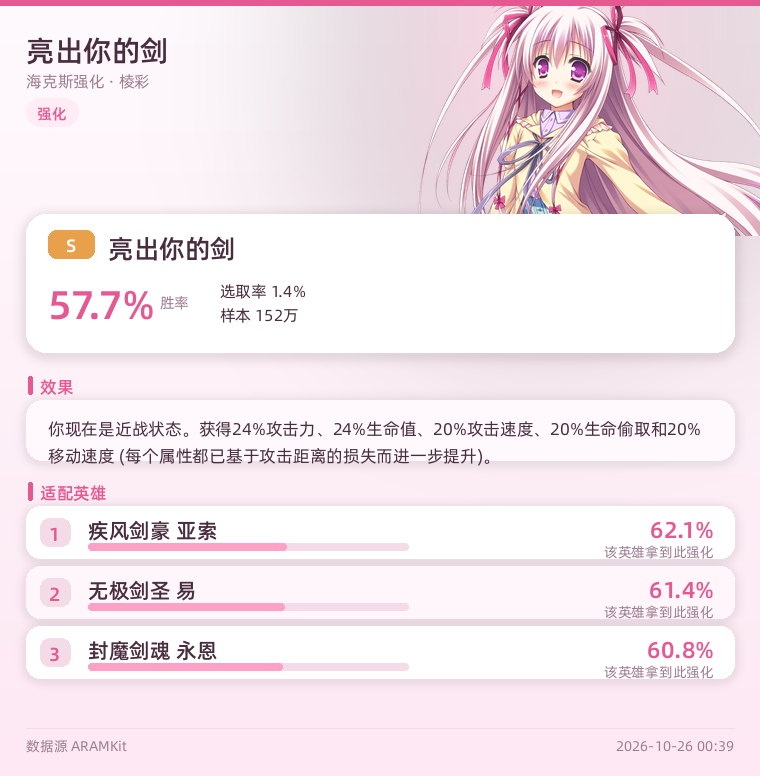
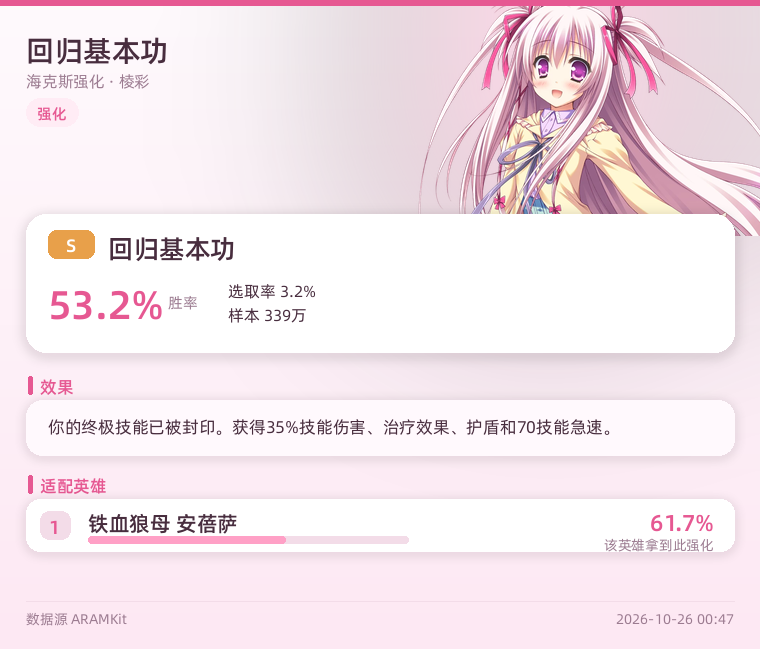
fix: 效果框文字溢出 + 强化别名与缩写搜索
- 修复效果区块高度计算错误（文字压到框底）
- 新增 aliases_augment.py：44 条强化别名（亮剑→亮出你的剑、死舞→升级：死亡之舞 等）
- 强化名改为归一化匹配：去掉空格/标点，长名字打一段就能搜
  （鼓声暴起低音轰鸣 可命中 鼓声暴起 低音轰鸣）
- 模糊匹配限制为 3 字以上，避免 2 字误配（死舞 → 死之舞）
- README 补充强化匹配说明

diff --git a/main.py b/main.py
@@ -14,6 +14,8 @@
 """
 import time
 
+import re
+
 import aiohttp
 
 from astrbot.api import logger
@@ -23,9 +25,11 @@ from astrbot.api.star import Context, Star, register
 try:
     from . import render
     from .aliases import NICKNAMES
+    from .aliases_augment import AUGMENT_NICKNAMES
 except ImportError:  # pragma: no cover
     import render  # type: ignore
     from aliases import NICKNAMES  # type: ignore
+    from aliases_augment import AUGMENT_NICKNAMES  # type: ignore
 
 DATA_BASE = "https://data.aramkit.com"
 UA = ("Mozilla/5.0 (Windows NT 10.0; Win64; x64) AppleWebKit/537.36 "
@@ -35,6 +39,13 @@ UA = ("Mozilla/5.0 (Windows NT 10.0; Win64; x64) AppleWebKit/537.36 "
 TTL_VERSIONS = 24 * 3600
 TTL_RESOURCES = 24 * 3600
 TTL_RANKINGS = 1800
+
+# 名字归一化：去掉空格和标点，便于「鼓声暴起低音轰鸣」匹配带空格的官方名
+_PUNCT_RE = re.compile(r"[\s：:·・,，。.、!！?？\-—–~～\"'“”‘’()（）\[\]【】<>《》]")
+
+
+def _norm(s) -> str:
+    return _PUNCT_RE.sub("", str(s or "")).lower()
 
 
 def pct(x, nd=1):
@@ -213,18 +224,60 @@ class AramQuery(Star):
         return None
 
     async def find_augment(self, q: str):
-        q = q.strip().lower()
+        """按 别名 > 归一化精确 > 归一化子串 > 模糊 的顺序匹配强化。
+
+        归一化会去掉空格和标点，所以「鼓声暴起低音轰鸣」也能命中
+        「鼓声暴起 低音轰鸣」；长名字只要打其中一段就行。
+        """
+        q0 = str(q or "").strip()
+        if not q0:
+            return None
         au = await self._augments()
-        exact, partial = [], []
+        qn = _norm(q0)
+
+        # 建索引（名字归一化 -> (aid, info)）
+        idx = {}
         for aid, info in au.items():
-            names = [str(info.get("name", "")), str(info.get("slug", ""))]
-            lowered = [n.lower() for n in names]
-            if any(n == q for n in lowered):
-                exact.append((aid, info))
-            elif any(q in n and n for n in lowered):
-                partial.append((aid, info))
-        pool = exact or partial
-        return pool[0] if pool else None
+            n = str(info.get("name", "")).strip()
+            if n:
+                idx[_norm(n)] = (aid, info)
+
+        def by_name(target: str):
+            tn = _norm(target)
+            if tn in idx:
+                return idx[tn]
+            for k, v in idx.items():
+                if tn and tn in k:
+                    return v
+            return None
+
+        # 1) 别名表
+        tgt = AUGMENT_NICKNAMES.get(q0) or AUGMENT_NICKNAMES.get(qn)
+        if tgt:
+            hit = by_name(tgt)
+            if hit:
+                return hit
+
+        # 2) 归一化精确
+        if qn in idx:
+            return idx[qn]
+
+        # 3) 归一化子串（取最短的，避免「九头蛇」命中「升级：贪欲九头蛇」之外的更长名）
+        hits = [(k, v) for k, v in idx.items() if qn and qn in k]
+        if hits:
+            hits.sort(key=lambda x: len(x[0]))
+            return hits[0][1]
+
+        # 4) 模糊匹配（至少 3 个字，避免 2 字误配）
+        if len(qn) >= 3:
+            try:
+                import difflib
+                cand = difflib.get_close_matches(qn, list(idx.keys()), n=1, cutoff=0.62)
+                if cand:
+                    return idx[cand[0]]
+            except Exception:
+                pass
+        return None
 
     # ---------------- 格式化 ----------------
     def _fmt_champ(self, cid, info, stats):

diff --git a/aliases_augment.py b/aliases_augment.py
@@ -1,0 +1,70 @@
+# -*- coding: utf-8 -*-
+"""强化（海克斯）俗称映射。
+
+键 = 玩家常喊的缩写/别名
+值 = 强化的中文全名（必须和数据里完全一致）
+
+只放「不是名字子串」的真别名。
+比如「无尽」是「升级：无尽之刃」的子串，不用写；
+但「亮剑」不是「亮出你的剑」的子串，必须写。
+"""
+
+AUGMENT_NICKNAMES: dict[str, str] = {
+    # 亮出你的剑
+    "亮剑": "亮出你的剑",
+    "拔剑": "亮出你的剑",
+
+    # 鼓声暴起 低音轰鸣
+    "低音": "鼓声暴起 低音轰鸣",
+    "低音炮": "鼓声暴起 低音轰鸣",
+    "鼓声暴起": "鼓声暴起 低音轰鸣",
+
+    # 小蜜蜂！！！
+    "蜜蜂": "小蜜蜂！！！",
+
+    # 升级系列（去掉「升级：」前缀的喊法）
+    "无尽之刃": "升级：无尽之刃",
+    "死亡之舞": "升级：死亡之舞",
+    "死舞": "升级：死亡之舞",      # 注意：不是「死之舞」
+    "贪欲九头蛇": "升级：贪欲九头蛇",
+    "花晓之剑": "升级：花晓之剑",
+    "风暴狂涌": "升级：风暴狂涌",
+    "收集者升级": "升级：收集者",
+
+    # 长的名字
+    "巫师帽": "沃格勒特的巫师帽",
+    "沃格勒特": "沃格勒特的巫师帽",
+    "风语者": "风语者的祝福",
+    "黎明使者": "黎明使者的坚决",
+    "黎明": "黎明使者的坚决",
+    "信念者": "信念者的强化",
+    "纯粹主义": "纯粹主义者 - 术师",
+    "最大雪球": "史上最大雪球",
+    "瞄准镜": "更万用的瞄准镜",
+    "没法力": "没法力，没问题",
+    "杀戮时间": "杀戮时间到了",
+    "眩晕": "转得我眩晕了",
+    "深红": "深红钴蓝闪光",
+    "钴蓝": "深红钴蓝闪光",
+    "自然即是": "自然即是治愈",
+    "艾卡西亚": "艾卡西亚的陷落",
+    "不可阻挡": "终极不可阻挡",
+    "困在这里": "和我一起困在这里",
+    "放倒": "将他们放倒倒倒",
+    "大杀四方": "无尽大杀四方",
+    "海牛阿福": "海牛阿福的勇士",
+    "终极九头蛇": "终极九头蛇",
+
+    # 其他常见简称
+    "基本功": "回归基本功",
+    "回归": "回归基本功",
+    "九头蛇": "终极九头蛇",
+    "潘多拉": "潘朵拉的盒子",
+    "龙魂": "海克斯科技龙魂",
+    "男爵": "男爵之手",
+    "雪球": "史上最大雪球",
+    "叠属性": "属性叠属性！",
+    "循环": "无限循环往复",
+    "质变棱彩": "质变：棱彩阶",
+    "质变黄金": "质变：黄金阶",
+}

diff --git a/render.py b/render.py
@@ -170,7 +170,9 @@ def render(title: str, subtitle: str = "", hero: dict | None = None,
     if len(desc_text) > 230:
         desc_text = desc_text[:230] + "…"
     desc_lines = _wrap(probe, desc_text, _f(17), W - 2 * PAD - 44) if desc_text else []
-    desc_h = (len(desc_lines) * 27 + 52) if desc_lines else 0
+    # 34(分区标题) + 上下各 14 内边距 + 行数*行高 + 底部间距
+    desc_box_h = (len(desc_lines) * 27 + 28) if desc_lines else 0
+    desc_h = (34 + desc_box_h + 10) if desc_lines else 0
 
     head_h = 214 if has_chara else 100
     hero_h = 152 if hero else 0
@@ -239,11 +241,11 @@ def render(title: str, subtitle: str = "", hero: dict | None = None,
         d.rounded_rectangle([PAD + 2, y + 10, PAD + 6, y + 28], radius=2, fill=ROSE)
         d.text((PAD + 14, y + 8), "效果", font=_f(17, True), fill=ROSE)
 
-        box = [PAD, y + 34, W - PAD, y + desc_h - 12]
+        box = [PAD, y + 34, W - PAD, y + 34 + desc_box_h]
         _soft_shadow(img, box, 16, blur=5, offset=2, alpha=55)
         d.rounded_rectangle(box, radius=16, fill=(255, 249, 253, 255))
 
-        ly = y + 34 + 16
+        ly = y + 34 + 14
         for ln in desc_lines:
             d.text((PAD + 22, ly), ln, font=_f(17), fill=TEXT)
             ly += 27

diff --git a/aliases.py b/aliases.py
@@ -7,8 +7,7 @@
     "火女": "annie",
 """
 
-NICKNAMES: dict[str, str] = {
-    # ---------------- 战士 / 上单 ----------------
+NICKNAMES: dict[str, str] = {    # ---------------- 战士 / 上单 ----------------
     "诺手": "darius", "人头狗": "darius", "达瑞斯": "darius",
     "德玛": "garen", "草丛伦": "garen", "盖伦": "garen",
     "菊花信": "xinzhao", "赵信": "xinzhao",

diff --git a/README.md b/README.md
@@ -66,7 +66,34 @@ NICKNAMES = {
 }
 ```
 
-强化支持：中文名（`回归基本功`）/ 英文（`back-to-basics`）。
+强化支持：中文名（`回归基本功`）/ 英文（`back-to-sword`）/ **别名与缩写**。
+
+### 强化名字匹配
+
+强化名做**归一化**后匹配（去掉空格和标点），所以长名字只要打其中一段：
+
+| 输入 | 命中 |
+|---|---|
+| `亮剑` | 亮出你的剑（别名） |
+| `低音` / `鼓声` | 鼓声暴起 低音轰鸣 |
+| `鼓声暴起低音轰鸣` | 鼓声暴起 低音轰鸣（不带空格也能搜） |
+| `无尽` | 升级：无尽之刃 |
+| `死舞` | 升级：死亡之舞 |
+| `巫师帽` | 沃格勒特的巫师帽 |
+| `龙魂` | 海克斯科技龙魂 |
+| `瞄准镜` | 更万用的瞄准镜 |
+
+别名表在 [`aliases_augment.py`](aliases_augment.py)，键是喊法、值是**强化中文全名**：
+
+```python
+AUGMENT_NICKNAMES = {
+    "亮剑": "亮出你的剑",     # 键 = 缩写/别名，值 = 官方中文全名
+    "死舞": "升级：死亡之舞",
+    ...
+}
+```
+
+> 只放「不是名字子串」的真别名。「无尽」是「升级：无尽之刃」的子串，不用写进表里。
 
 ---
 
